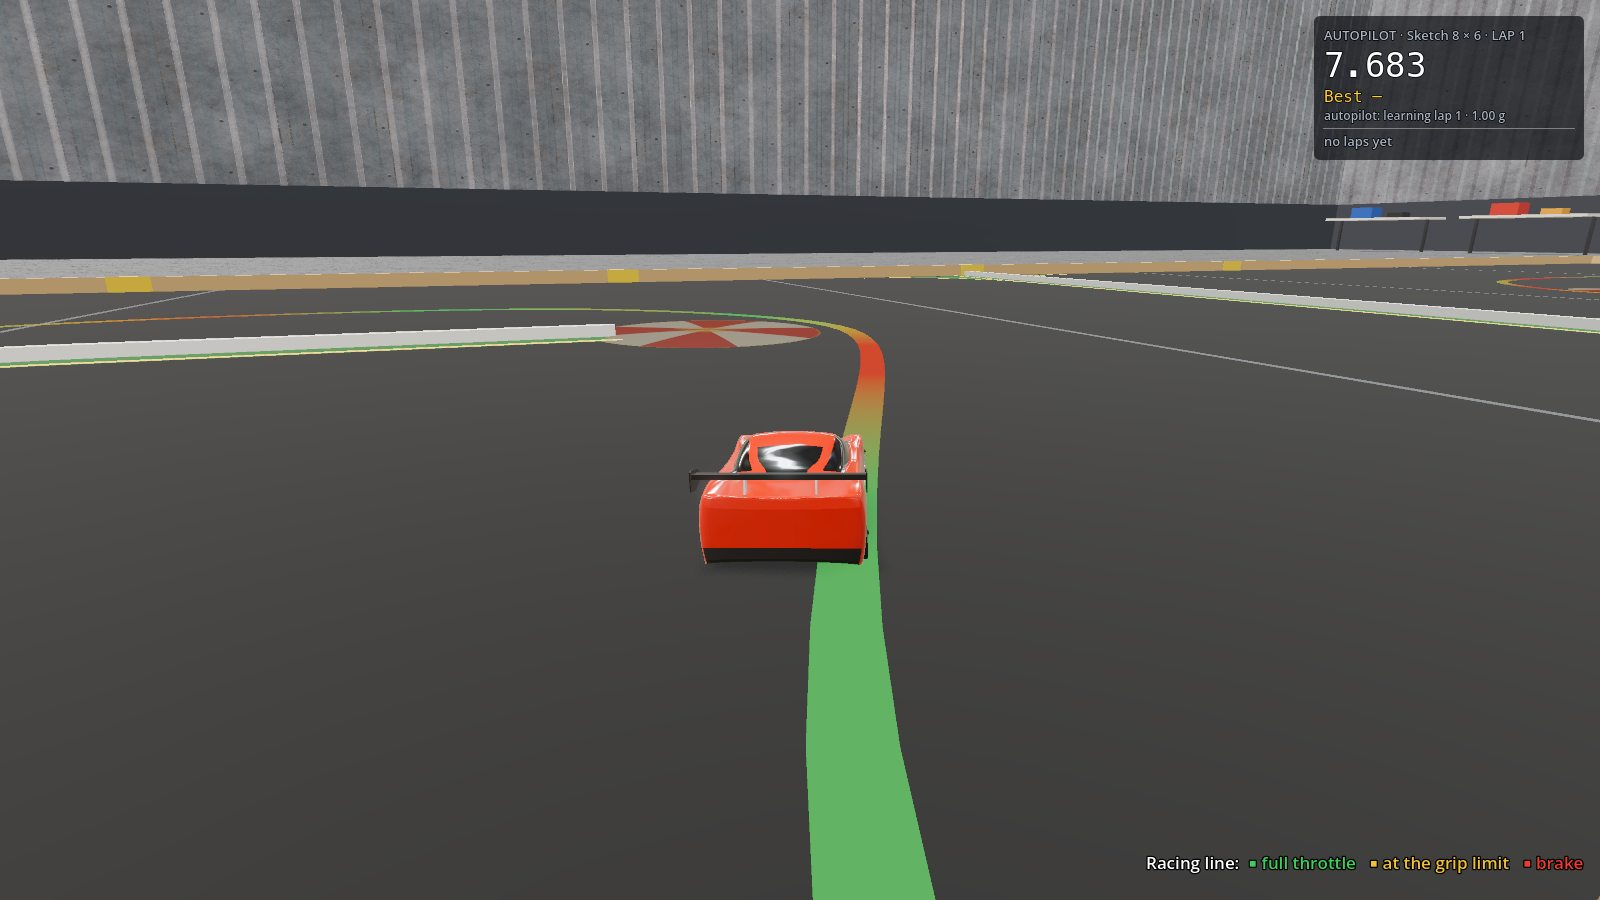
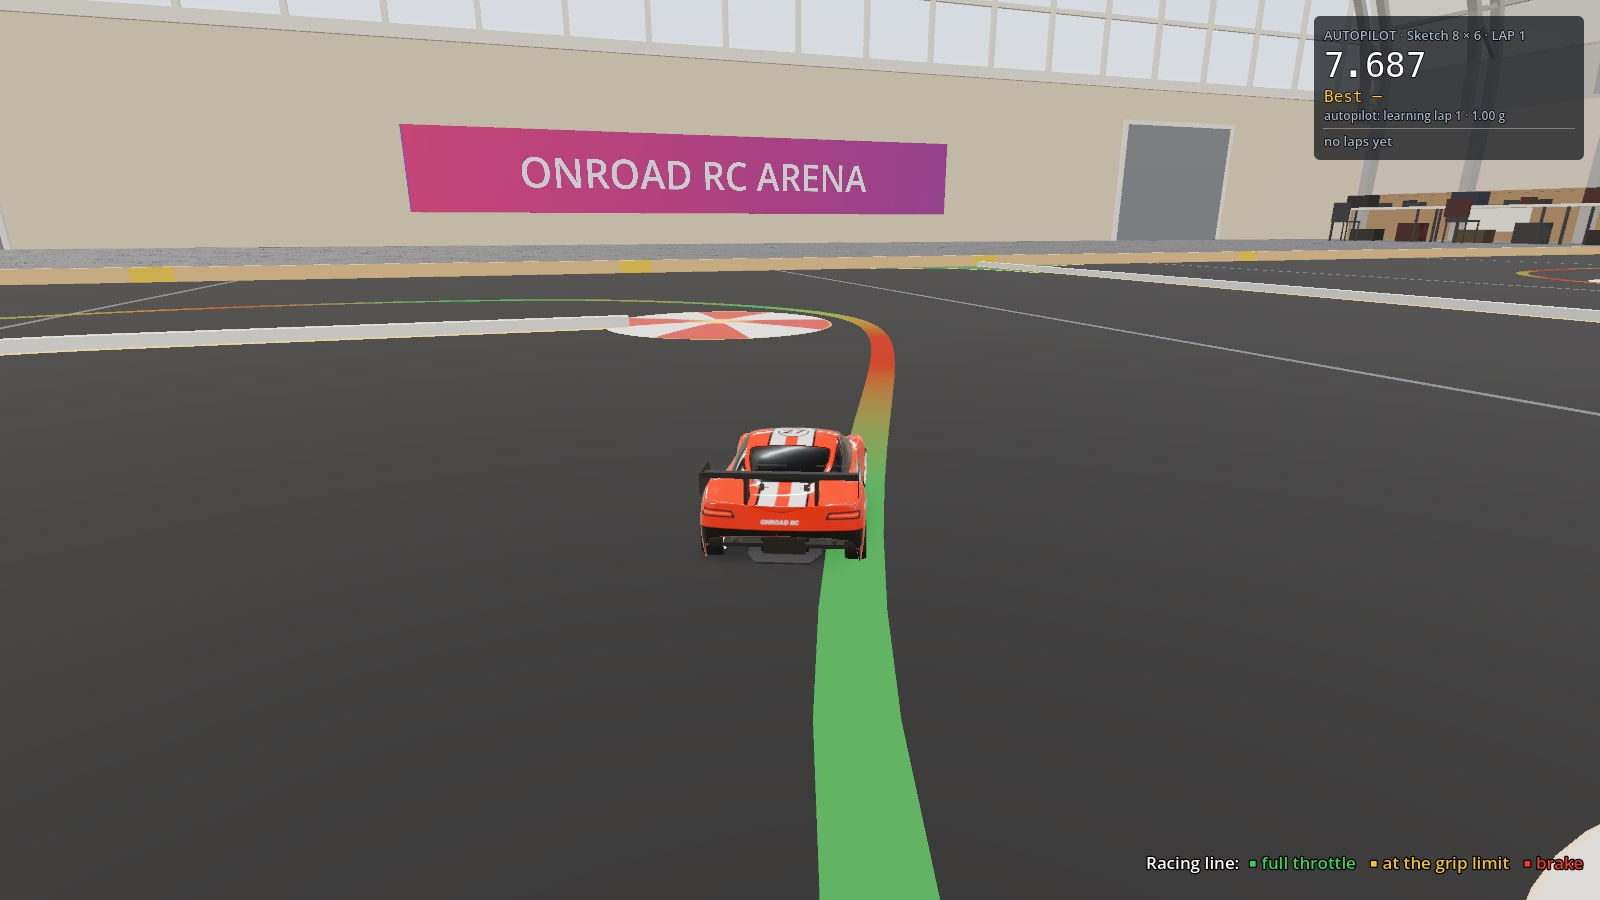
Web: verze 0.41, nové snímky z nové haly a aktuální časy autopilota

diff --git a/index.html b/index.html
@@ -170,14 +170,14 @@ footer .wrap { display: flex; flex-wrap: wrap; gap: 8px 24px; justify-content: s
           </a>
           <a href="#install"><span lang="cs">Jak nainstalovat</span><span lang="en">How to install</span></a>
         </div>
-        <p class="facts"><span lang="cs">Verze 0.32 · macOS 13 a novější · Mac s čipem Apple (M1 a novější) · zip 66 MB</span><span lang="en">Version 0.32 · macOS 13 or later · Mac with Apple silicon (M1 or later) · 66 MB zip</span></p>
+        <p class="facts"><span lang="cs">Verze 0.41 · macOS 13 a novější · Mac s čipem Apple (M1 a novější) · zip 66 MB</span><span lang="en">Version 0.41 · macOS 13 or later · Mac with Apple silicon (M1 or later) · 66 MB zip</span></p>
       </div>
       <aside class="board" aria-label="Lap times">
         <h3><span lang="cs">Autopilot · nejlepší kolo</span><span lang="en">Autopilot · best lap</span></h3>
         <table>
-          <tr><td><span lang="cs">Nákres 8 × 6</span><span lang="en">Sketch 8 × 6</span></td><td class="t">18.63<small>s</small></td></tr>
-          <tr><td>Rychvald</td><td class="t">21.36<small>s</small></td></tr>
-          <tr><td>Jedovnice</td><td class="t">17.67<small>s</small></td></tr>
+          <tr><td><span lang="cs">Nákres 8 × 6</span><span lang="en">Sketch 8 × 6</span></td><td class="t">18.72<small>s</small></td></tr>
+          <tr><td>Rychvald</td><td class="t">21.73<small>s</small></td></tr>
+          <tr><td>Jedovnice</td><td class="t">17.86<small>s</small></td></tr>
         </table>
         <p class="note"><span lang="cs">Výchozí setup: motor 17.5T, převod 4.5, koberec 26.4 × 19.8 m. Dokážeš být rychlejší?</span><span lang="en">Default setup: 17.5T motor, 4.5 ratio, 26.4 × 19.8 m carpet. Can you beat it?</span></p>
       </aside>
@@ -213,7 +213,7 @@ footer .wrap { display: flex; flex-wrap: wrap; gap: 8px 24px; justify-content: s
         </div>
         <div>
           <h3><span lang="cs">Setup jako v depu</span><span lang="en">Setup like in the pits</span></h3>
-          <p><span lang="cs">28 parametrů: výška, propad, příklon, sbíhavost, pružiny, tlumení, stabilizátory, váha, Ackermann, desky podvozku a převod. U každého je nápověda a schéma; nastavení si uložíš jako variantu a pošleš kamarádovi.</span><span lang="en">28 parameters: ride height, droop, camber, toe, springs, damping, anti-roll bars, weight, Ackermann, chassis plates and gear ratio. Each has a description and a diagram; save a setup as a file and send it to a friend.</span></p>
+          <p><span lang="cs">29 parametrů: výška, propad, příklon, sbíhavost, pružiny, tlumení, stabilizátory, přilnavost pneumatik, váha, Ackermann, olej v diferenciálu, desky podvozku a převod. U každého je nápověda a schéma; nastavení si uložíš jako variantu a pošleš kamarádovi.</span><span lang="en">29 parameters: ride height, droop, camber, toe, springs, damping, anti-roll bars, tire grip, weight, Ackermann, differential oil, chassis plates and gear ratio. Each has a description and a diagram; save a setup as a file and send it to a friend.</span></p>
         </div>
         <div>
           <h3><span lang="cs">Tratě z hal</span><span lang="en">Tracks from real halls</span></h3>
@@ -225,7 +225,7 @@ footer .wrap { display: flex; flex-wrap: wrap; gap: 8px 24px; justify-content: s
         </div>
         <div>
           <h3><span lang="cs">Tvoje vysílačka</span><span lang="en">Your transmitter</span></h3>
-          <p><span lang="cs">Vysílačka přes USB adaptér s kalibrací a dual rate, nebo klávesnice. Hra je česky a anglicky a nic neodesílá: žádné účty ani reklamy.</span><span lang="en">Use your transmitter through a USB adapter with calibration and dual rate, or the keyboard. The game is in English and Czech and sends nothing: no accounts, no ads.</span></p>
+          <p><span lang="cs">Vysílačka přes USB adaptér, kalibrace s živým zobrazením os a dual rate, nebo klávesnice. Hra je česky a anglicky a nic neodesílá: žádné účty ani reklamy.</span><span lang="en">Use your transmitter through a USB adapter, with a calibration that shows the axes live and dual rate, or the keyboard. The game is in English and Czech and sends nothing: no accounts, no ads.</span></p>
         </div>
       </div>
     </div>
@@ -236,11 +236,11 @@ footer .wrap { display: flex; flex-wrap: wrap; gap: 8px 24px; justify-content: s
       <h2><span lang="cs">Jak to vypadá</span><span lang="en">Screenshots</span></h2>
       <div class="gallery">
         <figure>
-          <img src="img/racing-line.jpg" width="1600" height="900" loading="lazy" alt="View from the driver stand onto a sweeping corner with the racing line">
+          <img src="img/racing-line.jpg" width="1600" height="900" loading="lazy" alt="View from the driver stand over the carpet track in a sports hall with the racing line">
           <figcaption><span lang="cs">Pohled z pódia řidičů: autopilot jede po ideální stopě.</span><span lang="en">From the driver stand: the autopilot follows the racing line.</span></figcaption>
         </figure>
         <figure>
-          <img src="img/track-top.jpg" width="1150" height="870" loading="lazy" alt="Top view of the Sketch 8 × 6 carpet track with dividers, dots and apex markers">
+          <img src="img/track-top.jpg" width="1228" height="900" loading="lazy" alt="Top view of the Sketch 8 × 6 carpet track with dividers, dots and apex markers">
           <figcaption><span lang="cs">Trať Nákres 8 × 6 shora: dělicí pásy, poklice a terče.</span><span lang="en">The Sketch 8 × 6 track from above: dividers, dots and apex markers.</span></figcaption>
         </figure>
         <figure>

diff --git a/src/page.html b/src/page.html
@@ -164,14 +164,14 @@ footer .wrap { display: flex; flex-wrap: wrap; gap: 8px 24px; justify-content: s
           </a>
           <a href="#install"><span lang="cs">Jak nainstalovat</span><span lang="en">How to install</span></a>
         </div>
-        <p class="facts"><span lang="cs">Verze 0.32 · macOS 13 a novější · Mac s čipem Apple (M1 a novější) · zip 66 MB</span><span lang="en">Version 0.32 · macOS 13 or later · Mac with Apple silicon (M1 or later) · 66 MB zip</span></p>
+        <p class="facts"><span lang="cs">Verze 0.41 · macOS 13 a novější · Mac s čipem Apple (M1 a novější) · zip 66 MB</span><span lang="en">Version 0.41 · macOS 13 or later · Mac with Apple silicon (M1 or later) · 66 MB zip</span></p>
       </div>
       <aside class="board" aria-label="Lap times">
         <h3><span lang="cs">Autopilot · nejlepší kolo</span><span lang="en">Autopilot · best lap</span></h3>
         <table>
-          <tr><td><span lang="cs">Nákres 8 × 6</span><span lang="en">Sketch 8 × 6</span></td><td class="t">18.63<small>s</small></td></tr>
-          <tr><td>Rychvald</td><td class="t">21.36<small>s</small></td></tr>
-          <tr><td>Jedovnice</td><td class="t">17.67<small>s</small></td></tr>
+          <tr><td><span lang="cs">Nákres 8 × 6</span><span lang="en">Sketch 8 × 6</span></td><td class="t">18.72<small>s</small></td></tr>
+          <tr><td>Rychvald</td><td class="t">21.73<small>s</small></td></tr>
+          <tr><td>Jedovnice</td><td class="t">17.86<small>s</small></td></tr>
         </table>
         <p class="note"><span lang="cs">Výchozí setup: motor 17.5T, převod 4.5, koberec 26.4 × 19.8 m. Dokážeš být rychlejší?</span><span lang="en">Default setup: 17.5T motor, 4.5 ratio, 26.4 × 19.8 m carpet. Can you beat it?</span></p>
       </aside>
@@ -207,7 +207,7 @@ footer .wrap { display: flex; flex-wrap: wrap; gap: 8px 24px; justify-content: s
         </div>
         <div>
           <h3><span lang="cs">Setup jako v depu</span><span lang="en">Setup like in the pits</span></h3>
-          <p><span lang="cs">28 parametrů: výška, propad, příklon, sbíhavost, pružiny, tlumení, stabilizátory, váha, Ackermann, desky podvozku a převod. U každého je nápověda a schéma; nastavení si uložíš jako variantu a pošleš kamarádovi.</span><span lang="en">28 parameters: ride height, droop, camber, toe, springs, damping, anti-roll bars, weight, Ackermann, chassis plates and gear ratio. Each has a description and a diagram; save a setup as a file and send it to a friend.</span></p>
+          <p><span lang="cs">29 parametrů: výška, propad, příklon, sbíhavost, pružiny, tlumení, stabilizátory, přilnavost pneumatik, váha, Ackermann, olej v diferenciálu, desky podvozku a převod. U každého je nápověda a schéma; nastavení si uložíš jako variantu a pošleš kamarádovi.</span><span lang="en">29 parameters: ride height, droop, camber, toe, springs, damping, anti-roll bars, tire grip, weight, Ackermann, differential oil, chassis plates and gear ratio. Each has a description and a diagram; save a setup as a file and send it to a friend.</span></p>
         </div>
         <div>
           <h3><span lang="cs">Tratě z hal</span><span lang="en">Tracks from real halls</span></h3>
@@ -219,7 +219,7 @@ footer .wrap { display: flex; flex-wrap: wrap; gap: 8px 24px; justify-content: s
         </div>
         <div>
           <h3><span lang="cs">Tvoje vysílačka</span><span lang="en">Your transmitter</span></h3>
-          <p><span lang="cs">Vysílačka přes USB adaptér s kalibrací a dual rate, nebo klávesnice. Hra je česky a anglicky a nic neodesílá: žádné účty ani reklamy.</span><span lang="en">Use your transmitter through a USB adapter with calibration and dual rate, or the keyboard. The game is in English and Czech and sends nothing: no accounts, no ads.</span></p>
+          <p><span lang="cs">Vysílačka přes USB adaptér, kalibrace s živým zobrazením os a dual rate, nebo klávesnice. Hra je česky a anglicky a nic neodesílá: žádné účty ani reklamy.</span><span lang="en">Use your transmitter through a USB adapter, with a calibration that shows the axes live and dual rate, or the keyboard. The game is in English and Czech and sends nothing: no accounts, no ads.</span></p>
         </div>
       </div>
     </div>
@@ -230,11 +230,11 @@ footer .wrap { display: flex; flex-wrap: wrap; gap: 8px 24px; justify-content: s
       <h2><span lang="cs">Jak to vypadá</span><span lang="en">Screenshots</span></h2>
       <div class="gallery">
         <figure>
-          <img src="img/racing-line.jpg" width="1600" height="900" loading="lazy" alt="View from the driver stand onto a sweeping corner with the racing line">
+          <img src="img/racing-line.jpg" width="1600" height="900" loading="lazy" alt="View from the driver stand over the carpet track in a sports hall with the racing line">
           <figcaption><span lang="cs">Pohled z pódia řidičů: autopilot jede po ideální stopě.</span><span lang="en">From the driver stand: the autopilot follows the racing line.</span></figcaption>
         </figure>
         <figure>
-          <img src="img/track-top.jpg" width="1150" height="870" loading="lazy" alt="Top view of the Sketch 8 × 6 carpet track with dividers, dots and apex markers">
+          <img src="img/track-top.jpg" width="1228" height="900" loading="lazy" alt="Top view of the Sketch 8 × 6 carpet track with dividers, dots and apex markers">
           <figcaption><span lang="cs">Trať Nákres 8 × 6 shora: dělicí pásy, poklice a terče.</span><span lang="en">The Sketch 8 × 6 track from above: dividers, dots and apex markers.</span></figcaption>
         </figure>
         <figure>
